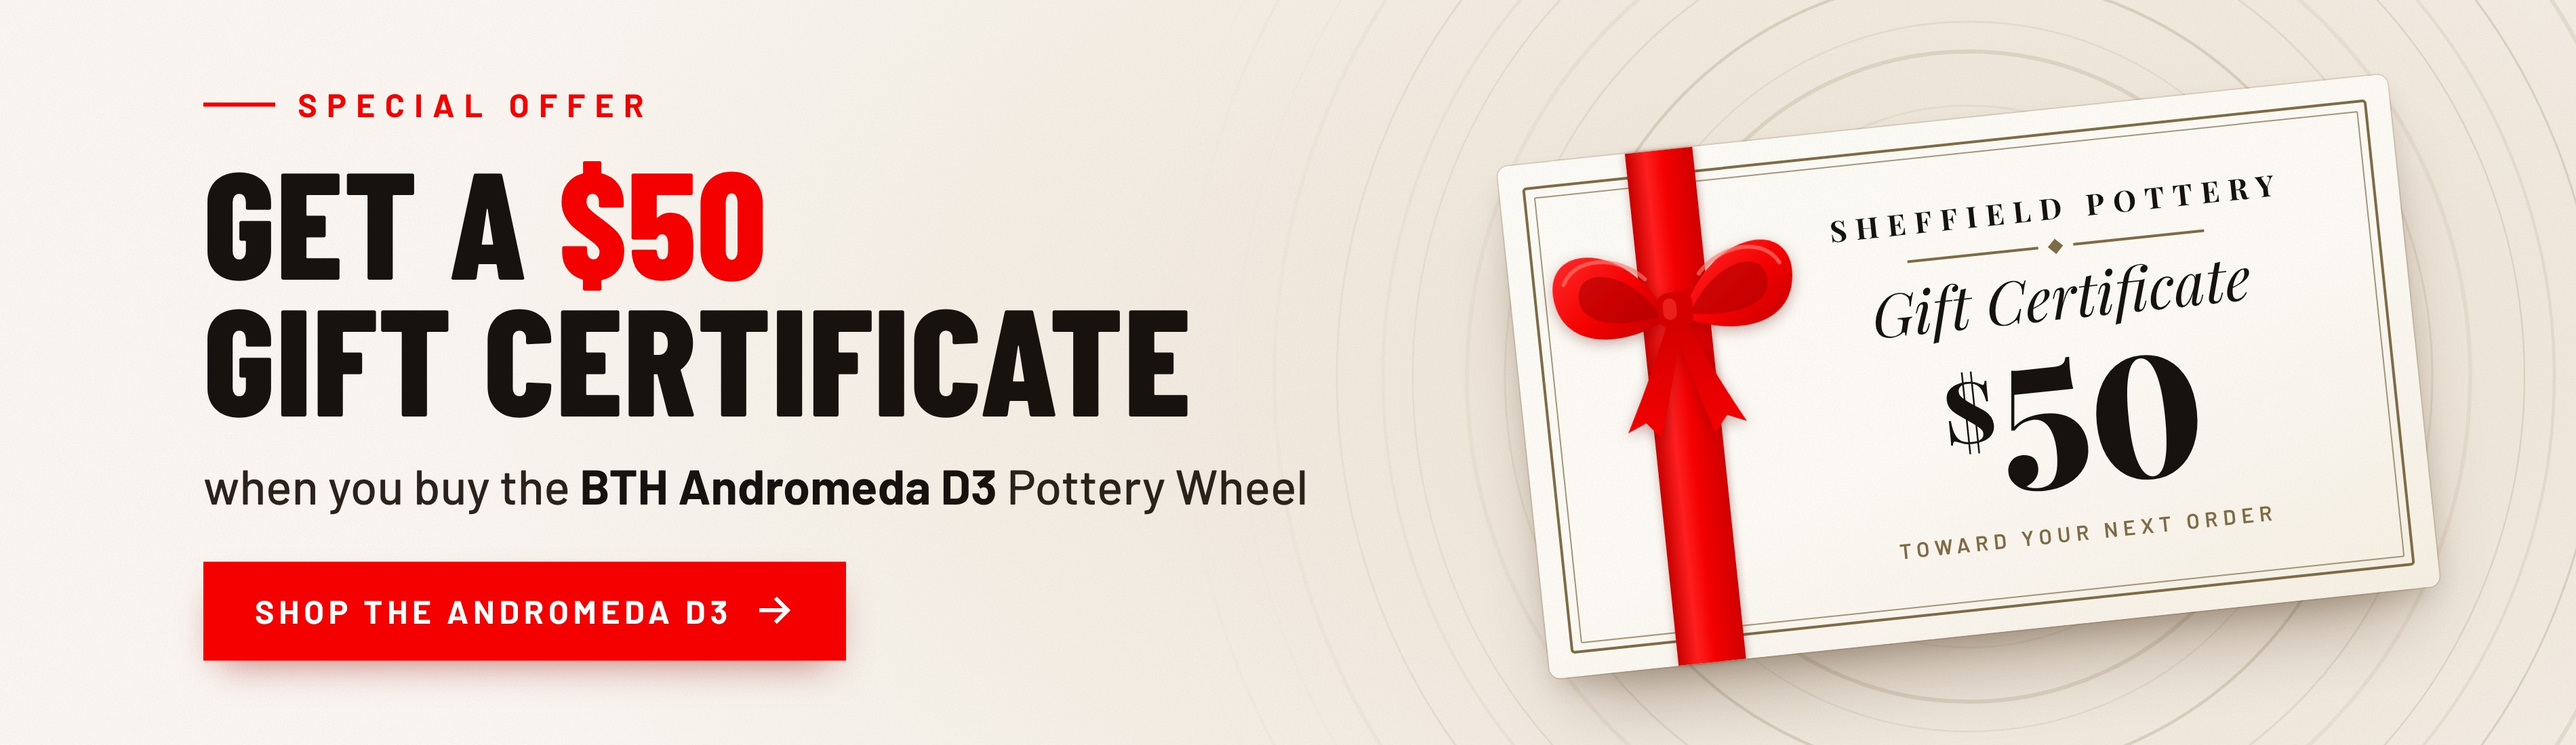
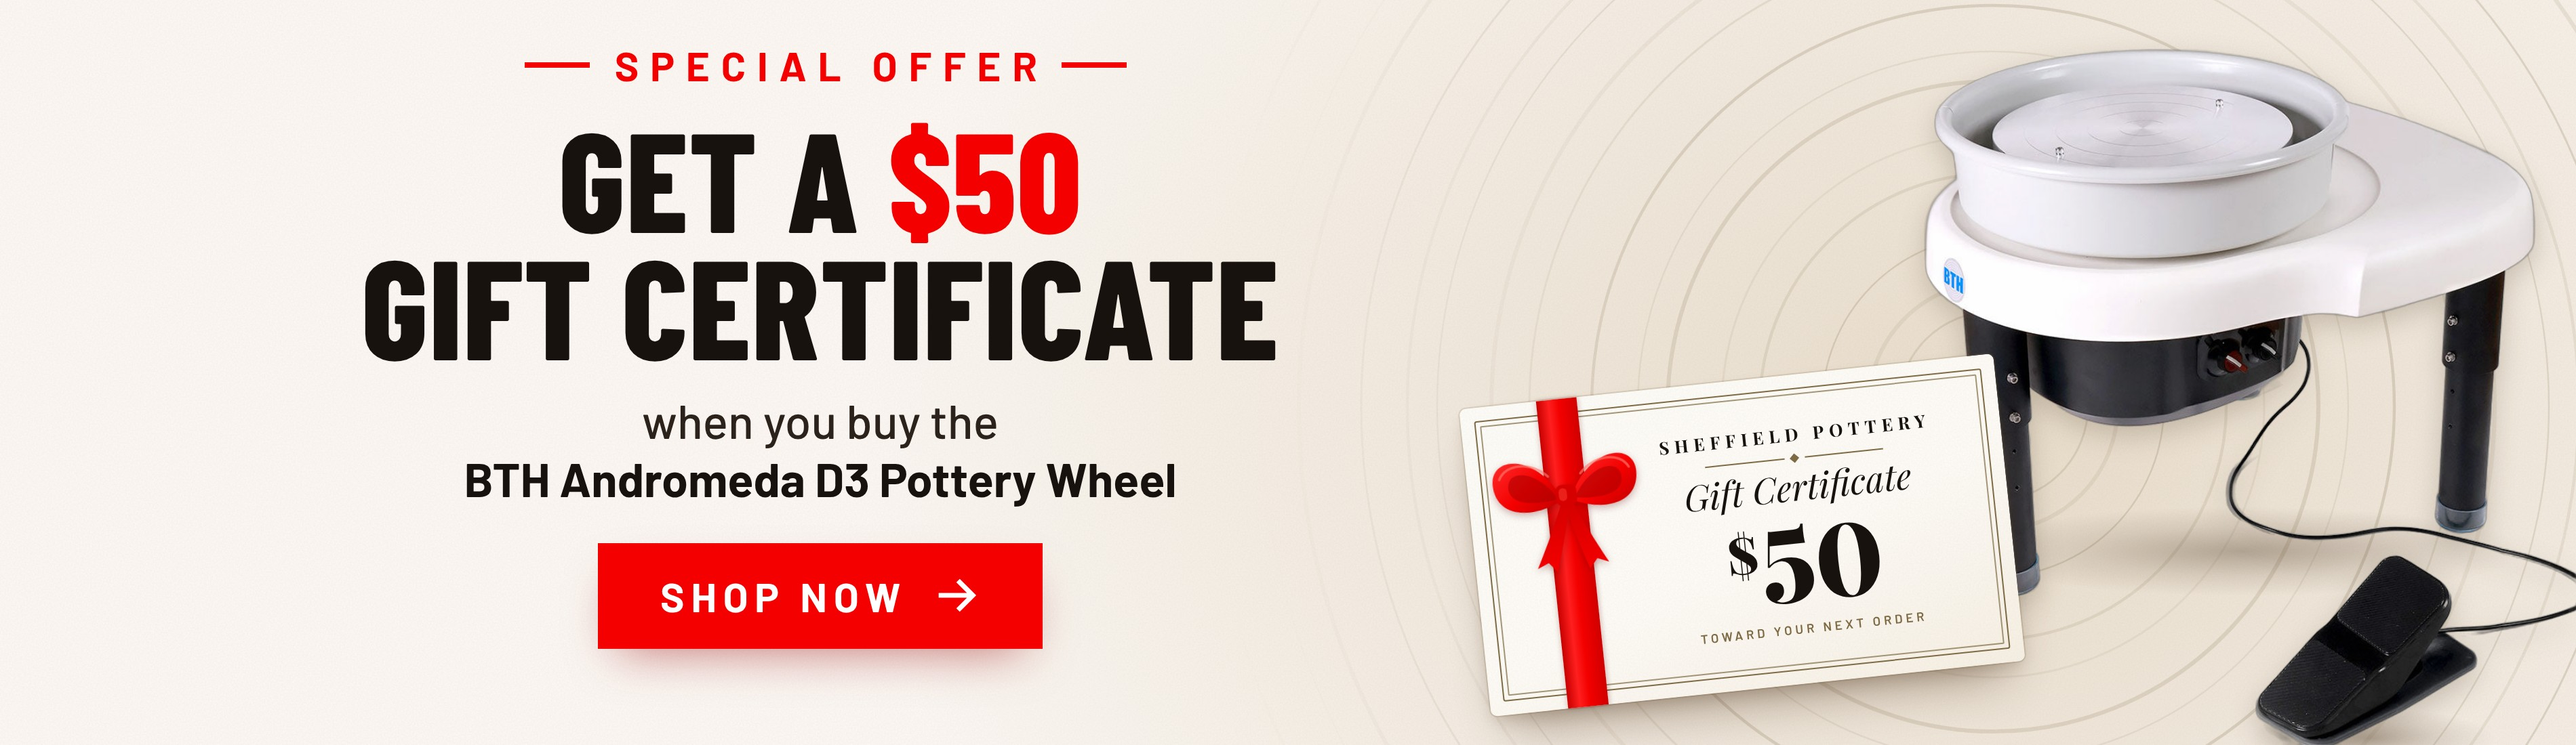
Add the wheel photo to the gift certificate slide; fix dot overlap
The BTH Andromeda D3 (cut-out of the product's main photo) now anchors the
right of both artboards, with the certificate leaning in front of it. The
photo's cable and pedal cuts sit on the artboard edges so neither shows.

Layout now stays clear of the theme's slideshow dots and keeps the button
inside the slide link's clickable strip on wide screens; small text is
larger for tablets. check-safe-zones.mjs verifies this at 320-2560px.

README: corrected live-editor steps (delete the pre-filled heading/text,
drag the slide to position 2), going-live notes, safe-zone rules.

Claude-Session: https://claude.ai/code/session_01K4Ev373V8dzS6VNi4zkDqM

diff --git a/homepage-slides/bth-d3-gift-certificate/slide.html b/homepage-slides/bth-d3-gift-certificate/slide.html
@@ -11,6 +11,11 @@
     #desktop  1900 x 550 CSS px  (rendered @2x -> 3800 x 1100)
     #mobile    617 x 800 CSS px  (rendered @2x -> 1234 x 1600)
 
+  Layout rules from the theme (see README "Safe zones"): the slideshow dots sit
+  over the bottom-left corner, and on very wide screens the slide's link only
+  covers the middle of the banner, so text and the button stay out of the left
+  edge and the bottom-left corner.
+
   Render with `npm run render` (see README.md). Open this file in a browser
   (after `npm install`) to preview and tweak.
 -->
@@ -47,7 +52,7 @@
     color: var(--ink);
     background:
       var(--grain),
-      radial-gradient(ellipse 62% 120% at var(--glow-x) var(--glow-y), #ece2d3 0%, #f3ece2 45%, var(--cream) 100%);
+      radial-gradient(ellipse var(--glow-w) var(--glow-h) at var(--glow-x) var(--glow-y), #e9ddcb 0%, #f1e9de 45%, var(--cream) 100%);
     font-family: "Barlow", sans-serif;
   }
 
@@ -56,14 +61,17 @@
   .rings circle { fill: none; stroke: var(--bronze); }
 
   /* ---------- copy ---------- */
+  .copy { position: absolute; display: flex; flex-direction: column; align-items: center; text-align: center; }
   .eyebrow {
-    display: flex; align-items: center; gap: .7em;
+    display: flex; align-items: center; gap: .6em;
     color: var(--red);
     font-weight: 700;
-    letter-spacing: .3em;
+    letter-spacing: .28em;
     text-transform: uppercase;
+    margin-right: -.28em; /* balance trailing letter-spacing */
   }
-  .eyebrow::before { content: ""; width: 2.2em; height: .16em; background: currentColor; }
+  .eyebrow::before, .eyebrow::after { content: ""; width: 1.6em; height: .14em; background: currentColor; }
+  .eyebrow::after { margin-left: -.28em; }
 
   .headline {
     font-family: "Barlow Condensed", sans-serif;
@@ -74,20 +82,41 @@
   }
   .headline .amt { color: var(--red); }
 
-  .sub { font-weight: 500; line-height: 1.25; color: #2a221b; }
+  .sub { font-weight: 500; line-height: 1.22; color: #2a221b; }
   .sub strong { font-weight: 700; color: var(--ink); }
 
   .cta {
-    display: inline-flex; align-items: center; gap: .75em;
+    display: inline-flex; align-items: center; gap: .7em;
     background: var(--red);
     color: #fff;
     font-weight: 700;
-    letter-spacing: .14em;
+    letter-spacing: .16em;
     text-transform: uppercase;
     white-space: nowrap;
     box-shadow: 0 .5em 1.2em -.5em rgba(150, 0, 0, .55);
   }
-  .cta svg { width: 1.15em; height: 1.15em; }
+  .cta svg { width: 1.1em; height: 1.1em; }
+
+  /* ---------- the wheel (cut-out of the product's main photo, BTH-D32.jpg) ----------
+     --wx/--wy/--ws place the ORIGINAL 1000x1000 photo frame (left, top, scale).
+     assets/bth-d3-wheel.png is that photo cropped at (125, 65), so offset by it.
+     The photo's right edge (where the pedal cable leaves the frame) and bottom
+     edge (where the pedal is clipped) are placed on the artboard's edges. */
+  .wheel {
+    position: absolute;
+    left: calc(var(--wx) + 125px * var(--ws));
+    top: calc(var(--wy) + 65px * var(--ws));
+    width: calc(875px * var(--ws));
+    filter: drop-shadow(0 calc(14px * var(--ws)) calc(18px * var(--ws)) rgba(60, 40, 20, .22));
+  }
+  .floor {
+    position: absolute;
+    border-radius: 50%;
+    background: radial-gradient(closest-side, rgba(70, 48, 25, .34), rgba(70, 48, 25, .12) 55%, transparent);
+  }
+  /* Floor shadows, in the original photo's coordinates (leg feet ≈ (245,776) and (848,696)). */
+  .floor.legs  { left: calc(var(--wx) + 170px * var(--ws)); top: calc(var(--wy) + 680px * var(--ws)); width: calc(760px * var(--ws)); height: calc(120px * var(--ws)); }
+  .floor.pedal { left: calc(var(--wx) + 560px * var(--ws)); top: calc(var(--wy) + 950px * var(--ws)); width: calc(330px * var(--ws)); height: calc(80px * var(--ws)); }
 
   /* ---------- the gift certificate (sized in em; set font-size to scale) ---------- */
   .card-wrap { position: absolute; transform: translate(-50%, -50%) rotate(-6deg); }
@@ -141,26 +170,30 @@
   .card__amount sup { font-size: .5em; vertical-align: .62em; margin-right: .04em; }
   .card__note { font-weight: 600; font-size: 1.55em; letter-spacing: .26em; text-transform: uppercase; color: var(--bronze); margin-top: .9em; margin-right: -.26em; }
 
-  /* ============================== DESKTOP 1900 x 550 ============================== */
-  #desktop { width: 1900px; height: 550px; --glow-x: 77%; --glow-y: 50%; }
-  #desktop .rings { -webkit-mask-image: linear-gradient(90deg, transparent 46%, #000 64%); mask-image: linear-gradient(90deg, transparent 46%, #000 64%); }
-  #desktop .copy { position: absolute; left: 150px; top: 50%; transform: translateY(-50%); width: 900px; }
-  #desktop .eyebrow { font-size: 24px; }
-  #desktop .headline { font-size: 112px; margin-top: 20px; }
-  #desktop .sub { font-size: 36px; margin-top: 22px; }
-  #desktop .cta { font-size: 24px; padding: 22px 38px; margin-top: 34px; }
-  #desktop .card-wrap { left: 1452px; top: 278px; font-size: 10px; }
+  /* ============================== DESKTOP 1900 x 550 ==============================
+     Keep the button and text right of x≈370 (clickable even on 2560px screens)
+     and out of the dots' corner (x < 350, y > 395). */
+  #desktop { width: 1900px; height: 550px; --glow-x: 77%; --glow-y: 58%; --glow-w: 44%; --glow-h: 110%; }
+  #desktop .rings { -webkit-mask-image: linear-gradient(90deg, transparent 48%, #000 66%); mask-image: linear-gradient(90deg, transparent 48%, #000 66%); }
+  #desktop .copy { left: 200px; width: 810px; top: 30px; }
+  #desktop .eyebrow { font-size: 30px; }
+  #desktop .headline { font-size: 104px; margin-top: 18px; }
+  #desktop .sub { font-size: 35px; margin-top: 18px; }
+  #desktop .cta { font-size: 30px; padding: 21px 46px; margin-top: 26px; }
+  #desktop { --wx: 1350px; --wy: 0px; --ws: .55; }
+  #desktop .card-wrap { left: 1285px; top: 395px; font-size: 6px; }
 
-  /* =============================== MOBILE 617 x 800 =============================== */
-  #mobile { width: 617px; height: 800px; --glow-x: 50%; --glow-y: 64%; text-align: center; }
-  #mobile .rings { -webkit-mask-image: linear-gradient(180deg, transparent 30%, #000 50%); mask-image: linear-gradient(180deg, transparent 30%, #000 50%); }
-  #mobile .copy { position: absolute; left: 32px; right: 32px; top: 58px; display: flex; flex-direction: column; align-items: center; }
-  #mobile .eyebrow { font-size: 21px; margin-right: -.3em; }
-  #mobile .eyebrow::before { display: none; }
-  #mobile .headline { font-size: 76px; margin-top: 14px; }
-  #mobile .sub { font-size: 27px; margin-top: 16px; max-width: 460px; }
-  #mobile .cta { position: absolute; left: 50%; top: 688px; transform: translateX(-50%); font-size: 21px; padding: 19px 30px; }
-  #mobile .card-wrap { left: 308px; top: 506px; font-size: 7.1px; }
+  /* =============================== MOBILE 617 x 800 ===============================
+     Keep the button and text out of the dots' corner (x < 205, y > 700). */
+  #mobile { width: 617px; height: 800px; --glow-x: 62%; --glow-y: 74%; --glow-w: 95%; --glow-h: 55%; }
+  #mobile .rings { -webkit-mask-image: linear-gradient(180deg, transparent 40%, #000 58%); mask-image: linear-gradient(180deg, transparent 40%, #000 58%); }
+  #mobile .copy { left: 28px; right: 28px; top: 40px; }
+  #mobile .eyebrow { font-size: 22px; }
+  #mobile .headline { font-size: 66px; margin-top: 12px; }
+  #mobile .sub { font-size: 26px; margin-top: 14px; max-width: 470px; }
+  #mobile .cta { font-size: 22px; padding: 17px 34px; margin-top: 22px; }
+  #mobile { --wx: 157px; --wy: 340px; --ws: .46; }
+  #mobile .card-wrap { left: 168px; top: 580px; font-size: 4.3px; }
 </style>
 </head>
 <body>
@@ -214,32 +247,38 @@
   </div>
 </template>
 
+<template id="wheel-tpl">
+  <div class="floor legs"></div>
+  <div class="floor pedal"></div>
+  <img class="wheel" src="assets/bth-d3-wheel.png" alt="">
+</template>
+
 <template id="arrow-tpl">
   <svg viewBox="0 0 24 24" fill="none" stroke="currentColor" stroke-width="2.6" stroke-linecap="square" aria-hidden="true"><path d="M3 12h16M13 5l7 7-7 7"/></svg>
 </template>
 
 <!-- ============================== DESKTOP ============================== -->
-<section class="artboard" id="desktop" data-rings="1452,278">
+<section class="artboard" id="desktop" data-rings="1470,300">
   <div class="copy">
     <p class="eyebrow">Special offer</p>
     <h1 class="headline">Get a <span class="amt">$50</span><br>gift certificate</h1>
-    <p class="sub">when you buy the <strong>BTH Andromeda D3</strong> Pottery Wheel</p>
-    <span class="cta">Shop the Andromeda D3</span>
+    <p class="sub">when you buy the<br><strong>BTH Andromeda D3 Pottery Wheel</strong></p>
+    <span class="cta">Shop now</span>
   </div>
 </section>
 
 <!-- =============================== MOBILE =============================== -->
-<section class="artboard" id="mobile" data-rings="308,506">
+<section class="artboard" id="mobile" data-rings="380,600">
   <div class="copy">
     <p class="eyebrow">Special offer</p>
     <h1 class="headline">Get a <span class="amt">$50</span><br>gift certificate</h1>
-    <p class="sub">when you buy the <strong>BTH Andromeda D3</strong> Pottery Wheel</p>
+    <p class="sub">when you buy the<br><strong>BTH Andromeda D3 Pottery Wheel</strong></p>
+    <span class="cta">Shop now</span>
   </div>
-  <span class="cta">Shop the Andromeda D3</span>
 </section>
 
 <script>
-  // Build the shared pieces (rings, certificate, CTA arrow) into each artboard.
+  // Build the shared pieces (rings, wheel, certificate, CTA arrow) into each artboard.
   const SVG = "http://www.w3.org/2000/svg";
   for (const board of document.querySelectorAll(".artboard")) {
     const [cx, cy] = board.dataset.rings.split(",").map(Number);
@@ -262,8 +301,9 @@
     }
     board.prepend(rings);
 
+    // Wheel first so the certificate overlaps it.
+    board.appendChild(document.getElementById("wheel-tpl").content.cloneNode(true));
     board.appendChild(document.getElementById("card-tpl").content.cloneNode(true));
-    board.querySelector(".card-wrap").style.cssText += `left:${cx}px;top:${cy}px;`;
     board.querySelector(".cta").appendChild(document.getElementById("arrow-tpl").content.cloneNode(true));
   }
 </script>

diff --git a/homepage-slides/bth-d3-gift-certificate/make-cutout.py b/homepage-slides/bth-d3-gift-certificate/make-cutout.py
@@ -1,0 +1,26 @@
+"""Rebuild assets/bth-d3-wheel.png from the product's main photo.
+
+    pip install "rembg[cpu]==2.0.67"
+    curl -o BTH-D32.jpg "https://cdn.shopify.com/s/files/1/0677/5508/2050/files/BTH-D32.jpg?v=1739975323"
+    python3 make-cutout.py BTH-D32.jpg assets/bth-d3-wheel.png
+
+Uses rembg's IS-Net model (isnet-general-use, Apache-2.0); it downloads
+~180 MB of model weights on first run. The wheel body is white plastic on a
+light-grey backdrop, so a colour threshold can't separate them.
+
+The crop box keeps the photo's right and bottom edges: that's where the
+pedal cable leaves the frame and the pedal is clipped. slide.html places
+those two edges on the artboard edges so neither cut shows.
+"""
+import sys
+
+from PIL import Image
+from rembg import new_session, remove
+
+CROP = (125, 65, 1000, 1000)  # alpha bounding box of the 1000x1000 photo
+
+src, dst = sys.argv[1], sys.argv[2]
+cut = remove(Image.open(src).convert("RGB"), session=new_session("isnet-general-use")).crop(CROP)
+cut.putalpha(cut.getchannel("A").point(lambda v: 0 if v < 8 else v))  # drop matting speckle
+cut.save(dst, optimize=True)
+print(f"wrote {dst} {cut.size}")

diff --git a/homepage-slides/bth-d3-gift-certificate/README.md b/homepage-slides/bth-d3-gift-certificate/README.md
@@ -9,6 +9,7 @@ offer on the [BTH – Andromeda D3 Pottery Wheel](https://www.sheffield-pottery.
 |---|---|---|
 | `bth-d3-gift-certificate-desktop.jpg` | 3800 × 1100 | Slide **Image** |
 | `bth-d3-gift-certificate-mobile.jpg` | 1234 × 1600 | Slide **Mobile image** |
+| `assets/bth-d3-wheel.png` | 875 × 935 | Cut-out of the product's main photo, used in both |
 
 These are 2× the size of the other slides (1900 × 550 desktop, 617 × 800
 mobile). The proportions are the same, so the slideshow height doesn't change,
@@ -17,50 +18,90 @@ and the text stays sharp on retina screens. The slideshow uses
 re-exported.
 
 The headline, offer, and button are part of the image, the same way the old
-4th of July sale slide worked. Leave the slide's own text fields empty.
+4th of July sale slide worked. The whole slide links to the product.
 
 ## Status (2026-10-07)
 
 - Both images are in **Content → Files** as `bth-d3-gift-certificate-desktop.jpg`
-  and `bth-d3-gift-certificate-mobile.jpg`, with the alt text below.
-- The slide was added as slide 2 (after Kiln Packages) to an unpublished copy
-  of the live theme, **"ABZ Stiletto - D3 gift cert slide (preview)"**, for
-  previewing. The live theme was not changed. The Shopify connector can't
-  write to the live theme.
+  and `bth-d3-gift-certificate-mobile.jpg`, with the alt text below. They were
+  replaced in place with the version that includes the wheel photo, so the
+  filenames (and anything pointing at them) didn't change.
+- The slide is **turned on** as slide 2 (after Kiln Packages) in an
+  unpublished copy of the live theme, **"ABZ Stiletto - D3 gift cert slide
+  (preview)"**. That's what lets the copy's preview link show it.
+  Customers don't see it.
+- The live theme, **"ABZ Stiletto - D3 gift cert badge (preview)"** (published
+  2026-10-07 15:15 UTC, despite the name), was not changed. The Shopify
+  connector can't write to the live theme.
 - `preview-theme/templates/index.json` is the home page template that was
-  written to that copy. It's the live theme's template plus one block,
-  `slide_bthD3g`.
+  written to the copy: the live template plus one block, `slide_bthD3g`.
 
-To go live, use either of these:
+## Going live
 
-1. **Add the slide in the live theme editor** (steps below). This is the safest
-   option if the live theme has been edited since the copy was made.
-2. **Publish the preview copy.** The copy only differs from the live theme in
-   this slide, as long as nobody edits the live theme in the meantime.
+Pick one:
+
+1. **Add the slide in the live theme editor** (steps below). Safest, and the
+   only option if the live theme has changed since the copy was made.
+2. **Publish the preview copy.** The slide goes live the moment you publish.
+   Only do this if the live theme hasn't changed since the copy was made
+   (2026-10-07 15:28 UTC). Apps edit themes too: Experro rewrote three
+   snippets in the current live theme right after it was created. After
+   publishing, rename the theme, since it'll be live with "(preview)" in its
+   name. To roll back, republish "ABZ Stiletto - D3 gift cert badge (preview)".
 
 ## Adding it to the slideshow
 
-In **Online Store → Themes → Customize → Home page → abz slideshow → Add slide**:
+In **Online Store → Themes → Customize → Home page → abz slideshow**:
 
-| Setting | Value |
-|---|---|
-| Image | `bth-d3-gift-certificate-desktop.jpg` |
-| Mobile image | `bth-d3-gift-certificate-mobile.jpg` |
-| Link (media link) | the *BTH - Andromeda D3 Pottery Wheel* product (`/products/bth-dd03-pottery-wheel`) |
-| Heading / Subheading / Text / Buttons | leave empty |
-| Overlay opacity | 0 |
+1. Click **Add slide**. A new slide comes pre-filled with a **Heading**
+   ("Slideshow") and **Text** ("Use this section to make a bold statement").
+   **Delete both**, or they'll be drawn on top of the image.
+2. Set these:
+
+   | Setting | Value |
+   |---|---|
+   | Image | `bth-d3-gift-certificate-desktop.jpg` |
+   | Mobile image | `bth-d3-gift-certificate-mobile.jpg` |
+   | Link (media link) | the *BTH - Andromeda D3 Pottery Wheel* product |
+   | Heading, Subheading, Text, Buttons | empty |
+   | Overlay opacity | 0 |
+
+3. Drag the new slide up so it sits directly below **SHEFFIELD POTTERY KILN
+   PACKAGES**. New slides are added at the end of the list.
+4. Check the editor preview: nothing should be drawn over the image. If you're
+   not ready for it to go live, hide it with the eye icon, then save.
 
 Image alt text (already set on both uploaded files in **Content → Files**):
 
-> Special offer: get a $50 gift certificate toward your next order when you buy the BTH Andromeda D3 Pottery Wheel. Shop the Andromeda D3.
+> Special offer: get a $50 gift certificate toward your next order when you buy the BTH Andromeda D3 Pottery Wheel. Shop now.
 
 Placement: the first enabled slide's heading becomes the home page `<h1>`.
 That heading is currently "SHEFFIELD POTTERY KILN PACKAGES". This slide has
-no text heading, so if you move it to the first position, the home page will
-have no `<h1>` while it's there. Putting it second avoids that.
+no text heading, so if it's moved to the first position, the home page will
+have no `<h1>` while it's there. Second place avoids that.
 
-When the offer ends, disable the slide. The product description and the
-slide both state the offer, so update them together.
+When the offer ends, disable the slide. The product description, the product
+image badge (`custom.image_offer_badge` metafield) and this slide all state the
+offer, so update them together.
+
+## Safe zones
+
+Because the button is part of the image, the layout has to stay clear of
+the theme's slideshow controls. The geometry below comes from the live theme's
+`assets/theme.css`:
+
+- **Dots:** the slideshow dots sit over the image's bottom-left corner,
+  32px above the bottom, one 24px tap target per slide. Keep text and the
+  button out of that corner. Otherwise taps meant for the button switch slides.
+- **Link area:** the slide's link only covers the centred content strip
+  (1400px plus side gutters). On very wide screens, the outer edges of the
+  image aren't clickable, so keep the button in the middle of the banner.
+- **Mobile switch:** the theme shows the mobile image below 720px wide. At
+  768px (iPad portrait), the desktop image is drawn at 40% size, so text in it
+  needs to be about 30px or bigger to stay readable.
+
+`npm run check` tests the text and button positions in `slide.html` against
+all three rules at every screen width from 320 to 2560px.
 
 ## Editing and re-rendering
 
@@ -75,8 +116,16 @@ the certificate.
 ```bash
 npm install          # fonts + Playwright
 npm run render       # rewrites both JPGs
+npm run check        # dots / link-area check at 320-2560px
 ```
 
 To preview while editing, open `slide.html` in a browser after
 `npm install`. If Playwright can't find a browser, run
 `npx playwright install chromium` once.
+
+The wheel is the product's main photo (`BTH-D32.jpg`) with the background
+removed by `make-cutout.py`, which uses rembg's IS-Net model. In the photo,
+the pedal cable runs off the right edge and the pedal is clipped at the
+bottom. `slide.html` puts those two edges on the edge of each artboard
+(`--wx`, `--wy`, `--ws`), so neither cut is visible. Keep that if you move
+the wheel.
